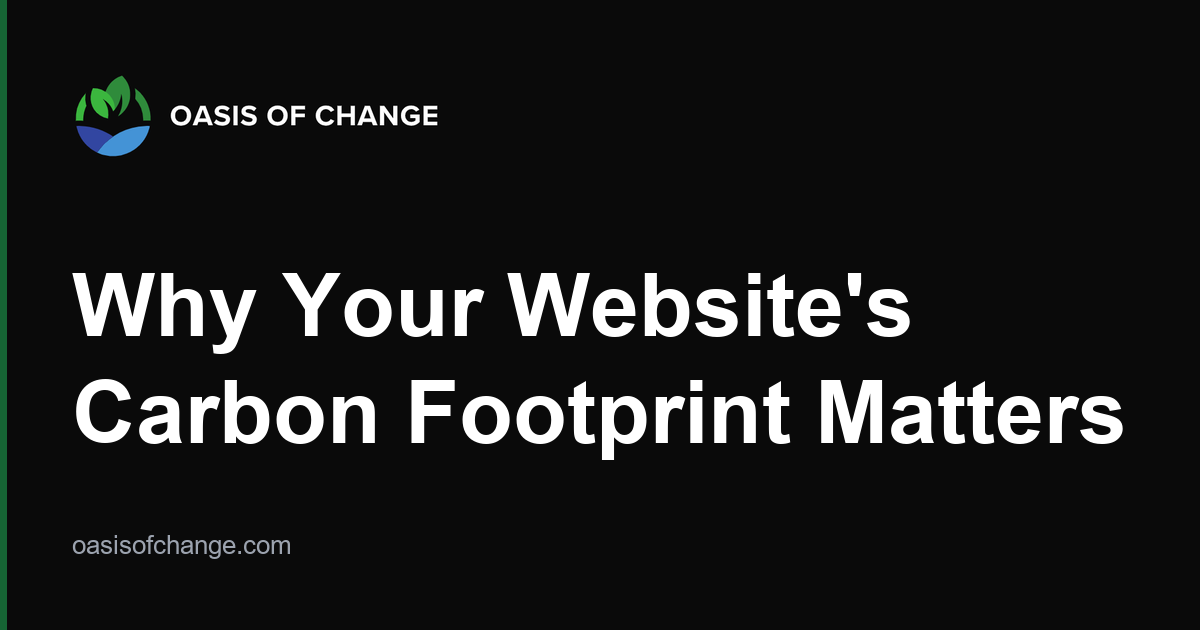
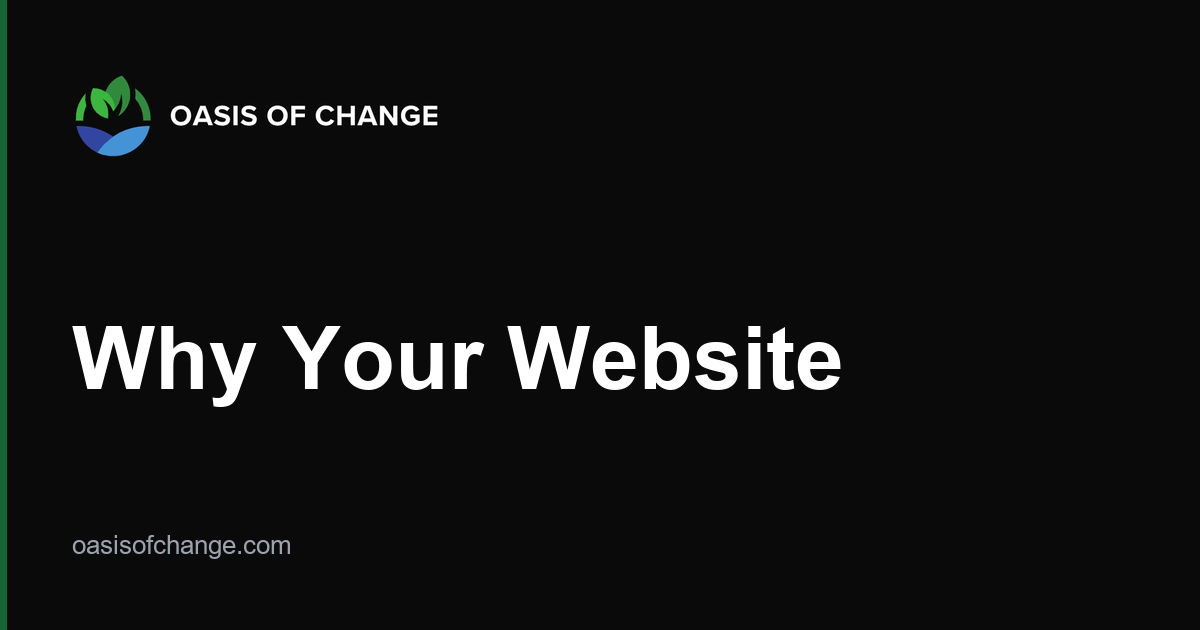
Refactor OG image title extraction to prioritize <meta property="og:title"> over <title>

Changed region(s): [[0.0617, 0.4222, 0.9558, 0.7238]]

diff --git a/scripts/generate_og_images.py b/scripts/generate_og_images.py
@@ -67,10 +67,21 @@ def slug_for(html_path: Path) -> str:
 
 
 def page_title(html_text: str) -> str:
-    m = re.search(r'<title>([^<]*)</title>', html_text, re.I | re.S)
-    if not m:
+    # Prefer <meta property="og:title"> so OG images reflect the customized social title.
+    # Fall back to <title> if og:title is absent.
+    raw = ''
+    m_og = re.search(
+        r'<meta\s+property=["\']og:title["\']\s+content=["\']([^"\']*)["\']',
+        html_text, re.I
+    )
+    if m_og:
+        raw = html.unescape(m_og.group(1)).strip()
+    if not raw:
+        m_title = re.search(r'<title>([^<]*)</title>', html_text, re.I | re.S)
+        if m_title:
+            raw = html.unescape(m_title.group(1)).strip()
+    if not raw:
         return 'Oasis of Change'
-    raw = html.unescape(m.group(1)).strip()
     if raw.endswith(CANONICAL_SUFFIX):
         raw = raw[: -len(CANONICAL_SUFFIX)].strip()
     # Drop anything after " | " so sub-titles stay clean.
